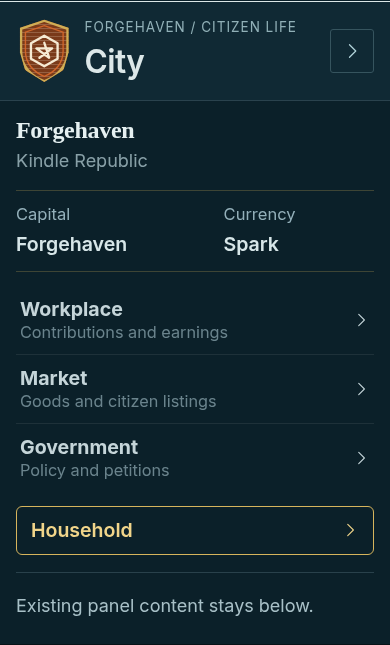
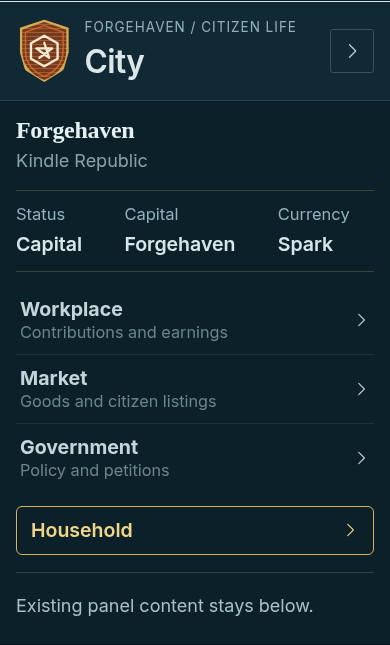
#392 S3 follow-up: Status: Capital on capital cities (UI_V2_PANEL) (#748)
* #392 S3: UI v2 panel shape (NEXT_PUBLIC_HARIMU_UI_V2_PANEL) for World and City, existing content only; preview on, production off

* #392 S3 follow-up: Status: Capital stat on capital cities only, derived from the city catalog (UI_V2_PANEL)

* #392 S3 (QA3): flag-off/on render tests; Household promoted to the City primary action (no composed copy); World keeps Economy and Religion; panel labels from props

---------

Changed region(s): [[0.0308, 0.3101, 0.8923, 0.4031], [0.3077, 0.3101, 0.4615, 0.3411], [0.0308, 0.3101, 0.1846, 0.3411]]

diff --git a/app/scene-panels-v2.tsx b/app/scene-panels-v2.tsx
@@ -1,7 +1,7 @@
 'use client';
 import type { ReactNode } from 'react';
 import { PanelV2 } from './panel-v2';
-import { uiV2PanelEnabled } from '@/lib/ui-v2-panel';
+import { cityStatusStat, uiV2PanelEnabled } from '@/lib/ui-v2-panel';
 import type { CityDestination } from '@/lib/city-destinations';
 
 /** #392 S3: the World and City side-panel pieces that change with NEXT_PUBLIC_HARIMU_UI_V2_PANEL. Each piece reads the build-time flag itself, so
@@ -29,11 +29,11 @@ export function WorldInstitutionsButton({ onView, enabled = uiV2PanelEnabled() }
   return enabled ? null : <button type="button" onClick={() => onView('nation')}>Inspect national institutions</button>;
 }
 
-/** City, top of the panel (flag on): the Household destination is promoted to the primary action (as in the concept), the other destinations are the rows. */
-export function CitySummary({ cityName, nation, destinations, onView, enabled = uiV2PanelEnabled() }: { cityName: string; nation: Nation; destinations: CityDestination[]; onView: (view: View) => void; enabled?: boolean }) {
+/** City, top of the panel (flag on): "Status: Capital" first on a capital only (from the city catalog), the Household destination is promoted to the primary action (as in the concept), the other destinations are the rows. */
+export function CitySummary({ cityName, city, nation, destinations, onView, enabled = uiV2PanelEnabled() }: { cityName: string; city?: { capital?: boolean } | null; nation: Nation; destinations: CityDestination[]; onView: (view: View) => void; enabled?: boolean }) {
   if (!enabled) return null;
   const home = destinations.find(card => card.id === 'household');
-  return <PanelV2 title={cityName} subtitle={nation.name} rowsLabel="City destinations" stats={[{ label: 'Capital', value: nation.capital }, { label: 'Currency', value: nation.currency }]}
+  return <PanelV2 title={cityName} subtitle={nation.name} rowsLabel="City destinations" stats={[...[cityStatusStat(city)].filter(stat => stat !== null), { label: 'Capital', value: nation.capital }, { label: 'Currency', value: nation.currency }]}
     rows={destinations.filter(card => card !== home).map(card => ({ id: card.id, label: card.label, detail: card.detail, onSelect: () => onView(card.id) }))}
     primary={home ? { label: home.label, onSelect: () => onView(home.id) } : undefined} />;
 }

diff --git a/app/page.tsx b/app/page.tsx
@@ -1802,7 +1802,7 @@ export default function Home() {
   const countryMap = <><CountryScene key={`${citizenSessionKey}:${countryNation.id}`} nationId={countryNation.id} currentCityId={countryCityId} homeCityId={countryHomeId} onTravel={cityId=>void travelCity(cityId)} pending={cityTravelPending} travelEnabled={canCityTravel} preview={!clerkConfigured || !countryOwnNation} presence={countryOwnNation ? currentCityAccount?.presence : undefined} /><WorldZones nationNames={Object.fromEntries(worldNations.map(n => [n.id, n.name]))} /></>;
   const countryPanel = <section aria-label="Country travel"><p>{countryNation.name} · three cities from the official lore.</p><p>Free, instant travel. Home stays in the capital. Jobs and markets are shared across these cities in this preview.</p>{cityError && <p role="alert">{cityError}</p>}{citizenNation && !currentCityAccount && <button type="button" onClick={()=>setCityRetry(value=>value+1)}>Refresh city account</button>}<button type="button" onClick={()=>changeView('square')}>Open City</button></section>;
   const gamePanel = viewMode==='world' ? worldPanel : viewMode==='country' ? countryPanel : foreignCivic ? foreignCivicPanel : viewMode==='square' ? <>
-    <CitySummary cityName={activeCity?.name ?? (citizenNation ?? selected).capital} nation={citizenNation ?? selected} destinations={cityDestinations((citizenNation ?? selected).id, marketVisible((citizenNation ?? selected).id, marketShown))} onView={changeView} />
+    <CitySummary cityName={activeCity?.name ?? (citizenNation ?? selected).capital} city={activeCity} nation={citizenNation ?? selected} destinations={cityDestinations((citizenNation ?? selected).id, marketVisible((citizenNation ?? selected).id, marketShown))} onView={changeView} />
     {guestAllowed && <button type="button" onClick={() => { stopTour(); setFirstVisitStage('arrival'); setShortlistIds([]); setFirstVisitGuideOpen(true); changeView('world'); }}>Start first-visit guide</button>}
     {firstLoopHint}{weekTracker}{dailyLoop}
     {clerkConfigured && citizenSessionStatus==='ready' && citizenNation && <NotableControl key={citizenSessionKey+citizenNation.id} nationId={citizenNation.id} />}

diff --git a/lib/ui-v2-panel.ts b/lib/ui-v2-panel.ts
@@ -1,3 +1,7 @@
 /** Build-time flag NEXT_PUBLIC_HARIMU_UI_V2_PANEL (UI v2, stage S3 of #392): the World and City side panels open with the concept's panel shape
  *  (summary header, chevron rows, one primary action) built from existing content. "true" in preview, "false" in production; only the exact string "true" enables it. */
 export function uiV2PanelEnabled(value: string | undefined = process.env.NEXT_PUBLIC_HARIMU_UI_V2_PANEL): boolean { return value === 'true'; }
+
+/** #392 S3 follow-up: the concept's "Status: Capital" stat, derived from the existing city catalog (`capital` on lib/cities.ts entries; no new field).
+ *  Returned only for a capital, so other cities show no Status stat. "Capital" is the country map's existing capital badge text. */
+export function cityStatusStat(city: { capital?: boolean } | null | undefined): { label: string; value: string } | null { return city?.capital ? { label: 'Status', value: 'Capital' } : null; }
